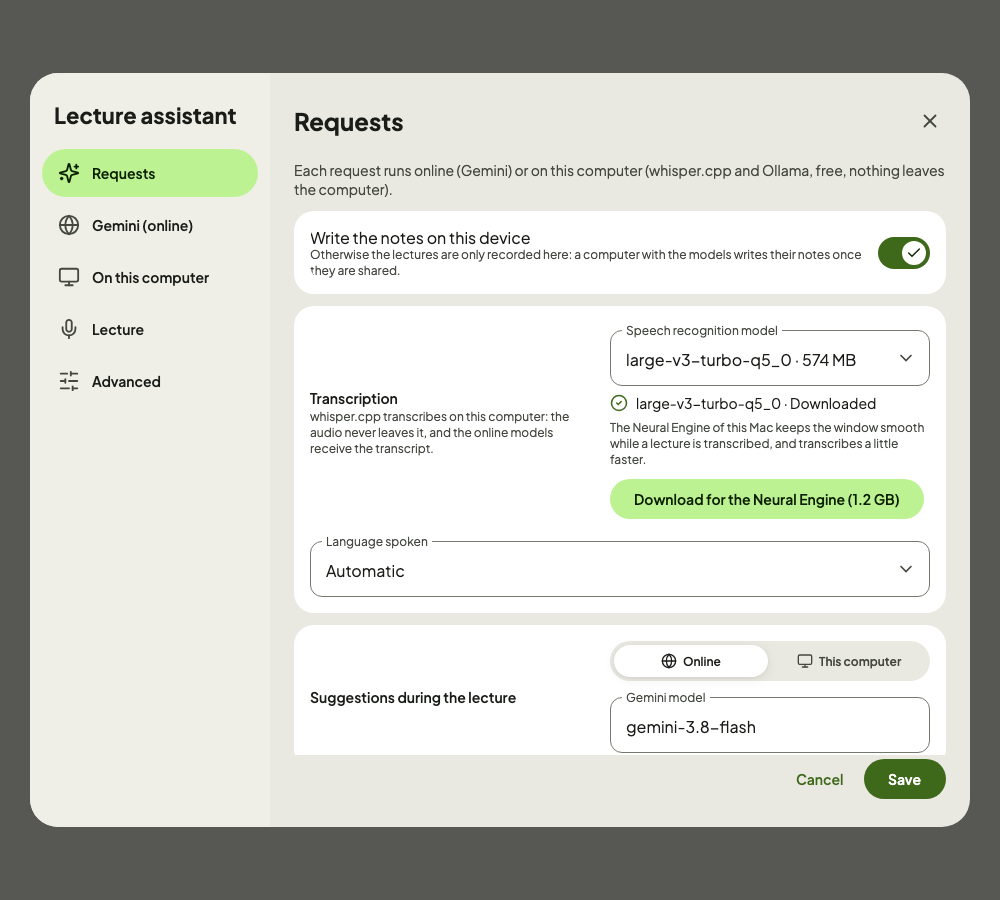
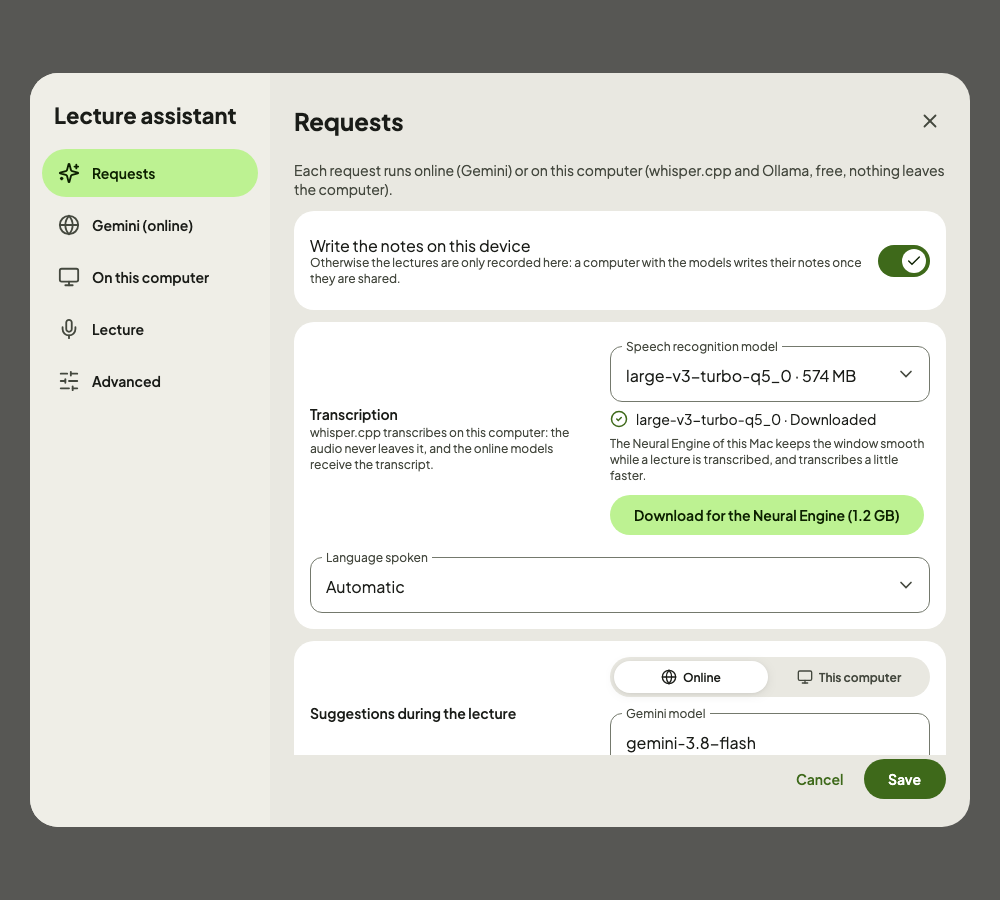
refactor(ui): one SwitchRow in the design components, one codePointAt in drawview-model
SwitchRow (drawview-ui) replaces the copies of the export sheet, the settings of the
lecture assistant and the access of the external models (their screenshots recorded
again: the switch with its check, the row toggling it); codePointAt and codePoints
(drawview-model, text) replace the copies of drawview-pdf and drawview-export. ABI of
drawview-model and drawview-ui updated on purpose. Phase 12 of docs/architecture.md.

Changed region(s): [[0.279, 0.2489, 0.961, 0.84], [0.31, 0.4356, 0.558, 0.5289], [0.31, 0.7467, 0.527, 0.8089]]

diff --git a/drawview-lecture-ui/src/commonMain/kotlin/io/github/valerioisufi/drawview/lecture/ui/AssistantSettingsDialog.kt b/drawview-lecture-ui/src/commonMain/kotlin/io/github/valerioisufi/drawview/lecture/ui/AssistantSettingsDialog.kt
@@ -17,20 +17,16 @@ import androidx.compose.foundation.layout.size
 import androidx.compose.foundation.layout.width
 import androidx.compose.foundation.rememberScrollState
 import androidx.compose.foundation.selection.selectable
-import androidx.compose.foundation.selection.toggleable
 import androidx.compose.foundation.shape.RoundedCornerShape
 import androidx.compose.foundation.verticalScroll
 import androidx.compose.material3.Button
 import androidx.compose.material3.CircularProgressIndicator
-import androidx.compose.material3.DropdownMenuItem
 import androidx.compose.material3.Icon
 import androidx.compose.material3.IconButton
 import androidx.compose.material3.LinearProgressIndicator
 import androidx.compose.material3.MaterialTheme
 import androidx.compose.material3.OutlinedTextField
 import androidx.compose.material3.RadioButton
-import androidx.compose.material3.Switch
-import androidx.compose.material3.SwitchDefaults
 import androidx.compose.material3.Text
 import androidx.compose.material3.TextButton
 import androidx.compose.runtime.Composable
@@ -70,6 +66,7 @@ import io.github.valerioisufi.drawview.ui.components.DesignSlider
 import io.github.valerioisufi.drawview.ui.components.LabelBadge
 import io.github.valerioisufi.drawview.ui.components.NavigationItem
 import io.github.valerioisufi.drawview.ui.components.SegmentedChoice
+import io.github.valerioisufi.drawview.ui.components.SwitchRow
 import io.github.valerioisufi.drawview.ui.components.TonalButton
 import io.github.valerioisufi.drawview.ui.theme.DrawViewIcons
 import io.github.valerioisufi.drawview.ui.util.formatDecimal
@@ -204,38 +201,16 @@ private fun SettingsCard(title: StringResource? = null, content: @Composable Col
     }
 }
 
-/** A setting turned on and off: its name, what it means, its switch. */
-@Composable
-private fun SwitchRow(label: String, hint: String?, checked: Boolean, onChange: (Boolean) -> Unit) {
-    Row(
-        modifier = Modifier.fillMaxWidth().clip(RoundedCornerShape(12.dp)).toggleable(value = checked, role = Role.Switch, onValueChange = onChange),
-        verticalAlignment = Alignment.CenterVertically,
-        horizontalArrangement = Arrangement.spacedBy(12.dp)
-    ) {
-        Column(modifier = Modifier.weight(1f)) {
-            Text(label, style = MaterialTheme.typography.bodyLarge)
-            hint?.let { Hint(it) }
-        }
-        Switch(
-            checked = checked,
-            onCheckedChange = null,
-            thumbContent = if (checked) {
-                { Icon(DrawViewIcons.Check, contentDescription = null, modifier = Modifier.size(SwitchDefaults.IconSize)) }
-            } else null
-        )
-    }
-}
-
 /** Whether the notes are written here; online or local for every request, and its model; what is sent to Google. */
 @Composable
 private fun RequestsSection(draft: AssistantSettings, localModels: LocalModels, onChange: (AssistantSettings) -> Unit) {
     Text(stringResource(Res.string.lecture_settings_requests_hint), style = MaterialTheme.typography.bodyMedium, color = MaterialTheme.colorScheme.onSurfaceVariant)
     SettingsCard {
         SwitchRow(
-            label = stringResource(Res.string.lecture_settings_generate_here),
+            text = stringResource(Res.string.lecture_settings_generate_here),
             hint = stringResource(Res.string.lecture_settings_generate_here_hint),
             checked = draft.generateHere,
-            onChange = { onChange(draft.copy(generateHere = it)) }
+            onCheckedChange = { onChange(draft.copy(generateHere = it)) }
         )
     }
     if (!draft.generateHere) return
@@ -458,10 +433,10 @@ private fun TaskModelRow(task: LectureTask, settings: AssistantSettings, localMo
         }
         if (task == LectureTask.FINAL_REVIEW) {
             SwitchRow(
-                label = stringResource(Res.string.lecture_settings_review_at_end),
+                text = stringResource(Res.string.lecture_settings_review_at_end),
                 hint = stringResource(Res.string.lecture_settings_review_on_request_hint).takeIf { !settings.reviewAtTheEnd },
                 checked = settings.reviewAtTheEnd,
-                onChange = { onChange(settings.copy(reviewAtTheEnd = it)) }
+                onCheckedChange = { onChange(settings.copy(reviewAtTheEnd = it)) }
             )
         }
     }

diff --git a/drawview-export-ui/src/commonMain/kotlin/io/github/valerioisufi/drawview/export/ui/ExportSheet.kt b/drawview-export-ui/src/commonMain/kotlin/io/github/valerioisufi/drawview/export/ui/ExportSheet.kt
@@ -18,7 +18,6 @@ import androidx.compose.foundation.layout.size
 import androidx.compose.foundation.layout.width
 import androidx.compose.foundation.selection.selectable
 import androidx.compose.foundation.selection.selectableGroup
-import androidx.compose.foundation.selection.toggleable
 import androidx.compose.foundation.shape.RoundedCornerShape
 import androidx.compose.foundation.text.KeyboardActions
 import androidx.compose.foundation.text.KeyboardOptions
@@ -27,8 +26,6 @@ import androidx.compose.material3.Icon
 import androidx.compose.material3.MaterialTheme
 import androidx.compose.material3.OutlinedTextField
 import androidx.compose.material3.Surface
-import androidx.compose.material3.Switch
-import androidx.compose.material3.SwitchDefaults
 import androidx.compose.material3.Text
 import androidx.compose.material3.TextButton
 import androidx.compose.runtime.Composable
@@ -101,14 +98,15 @@ import io.github.valerioisufi.drawview.export.ui.generated.resources.export_titl
 import io.github.valerioisufi.drawview.ui.adaptive.AdaptiveSheet
 import io.github.valerioisufi.drawview.ui.components.ChipRow
 import io.github.valerioisufi.drawview.ui.components.DesignFilterChip
+import io.github.valerioisufi.drawview.ui.components.SwitchRow
 import io.github.valerioisufi.drawview.ui.platform.FileTarget
 import io.github.valerioisufi.drawview.ui.platform.rememberFileSaver
 import io.github.valerioisufi.drawview.ui.platform.rememberFileSharer
-import io.github.valerioisufi.drawview.ui.render.LocalDrawViewEngines
 import io.github.valerioisufi.drawview.ui.render.ComposeTextTileAdapter
+import io.github.valerioisufi.drawview.ui.render.LocalDrawViewEngines
+import io.github.valerioisufi.drawview.ui.theme.DrawViewIcons
 import io.github.valerioisufi.drawview.ui.theme.NotesFontFiles
 import io.github.valerioisufi.drawview.ui.theme.rememberNotesFonts
-import io.github.valerioisufi.drawview.ui.theme.DrawViewIcons
 import org.jetbrains.compose.resources.StringResource
 import org.jetbrains.compose.resources.pluralStringResource
 import org.jetbrains.compose.resources.stringResource
@@ -438,27 +436,3 @@ private fun FormatCard(icon: ImageVector, name: String, hint: String, selected: 
     }
 }
 
-/** An option: its [text], what it does ([hint]) and its switch. */
-@Composable
-private fun SwitchRow(text: String, hint: String?, checked: Boolean, onCheckedChange: (Boolean) -> Unit) {
-    Row(
-        modifier = Modifier
-            .fillMaxWidth()
-            .clip(RoundedCornerShape(12.dp))
-            .toggleable(value = checked, role = Role.Switch, onValueChange = onCheckedChange)
-            .padding(vertical = 8.dp),
-        verticalAlignment = Alignment.CenterVertically
-    ) {
-        Column(modifier = Modifier.weight(1f)) {
-            Text(text, style = MaterialTheme.typography.bodyLarge, color = MaterialTheme.colorScheme.onSurface)
-            if (hint != null) Text(hint, style = MaterialTheme.typography.bodySmall, color = MaterialTheme.colorScheme.onSurfaceVariant)
-        }
-        Switch(
-            checked = checked,
-            onCheckedChange = null,
-            thumbContent = if (checked) {
-                { Icon(DrawViewIcons.Check, contentDescription = null, modifier = Modifier.size(SwitchDefaults.IconSize)) }
-            } else null
-        )
-    }
-}

diff --git a/drawview-ui/src/commonMain/kotlin/io/github/valerioisufi/drawview/ui/components/DesignComponents.kt b/drawview-ui/src/commonMain/kotlin/io/github/valerioisufi/drawview/ui/components/DesignComponents.kt
@@ -9,6 +9,7 @@ import androidx.compose.foundation.interaction.MutableInteractionSource
 import androidx.compose.foundation.interaction.collectIsFocusedAsState
 import androidx.compose.foundation.layout.Arrangement
 import androidx.compose.foundation.layout.Box
+import androidx.compose.foundation.layout.Column
 import androidx.compose.foundation.layout.PaddingValues
 import androidx.compose.foundation.layout.Row
 import androidx.compose.foundation.layout.RowScope
@@ -18,6 +19,7 @@ import androidx.compose.foundation.layout.height
 import androidx.compose.foundation.layout.padding
 import androidx.compose.foundation.layout.size
 import androidx.compose.foundation.rememberScrollState
+import androidx.compose.foundation.selection.toggleable
 import androidx.compose.foundation.shape.CircleShape
 import androidx.compose.foundation.shape.RoundedCornerShape
 import androidx.compose.foundation.text.BasicTextField
@@ -34,6 +36,8 @@ import androidx.compose.material3.OutlinedButton
 import androidx.compose.material3.Snackbar
 import androidx.compose.material3.SnackbarData
 import androidx.compose.material3.Surface
+import androidx.compose.material3.Switch
+import androidx.compose.material3.SwitchDefaults
 import androidx.compose.material3.Text
 import androidx.compose.runtime.Composable
 import androidx.compose.runtime.CompositionLocalProvider
@@ -47,8 +51,8 @@ import androidx.compose.ui.focus.focusRequester
 import androidx.compose.ui.graphics.Color
 import androidx.compose.ui.graphics.SolidColor
 import androidx.compose.ui.graphics.vector.ImageVector
-import androidx.compose.ui.semantics.Role
 import androidx.compose.ui.platform.LocalSoftwareKeyboardController
+import androidx.compose.ui.semantics.Role
 import androidx.compose.ui.text.TextStyle
 import androidx.compose.ui.text.input.ImeAction
 import androidx.compose.ui.text.style.TextOverflow
@@ -391,4 +395,33 @@ public fun OutlineButton(
         border = BorderStroke(1.dp, if (enabled) borderColor else borderColor.copy(alpha = 0.38f)),
         content = content
     )
+}
+
+/**
+ * An option turned on and off: its [text], what it does ([hint]) and its switch; the whole row
+ * toggles it.
+ */
+@Composable
+public fun SwitchRow(text: String, hint: String?, checked: Boolean, onCheckedChange: (Boolean) -> Unit, modifier: Modifier = Modifier) {
+    Row(
+        modifier = modifier
+            .fillMaxWidth()
+            .clip(RoundedCornerShape(12.dp))
+            .toggleable(value = checked, role = Role.Switch, onValueChange = onCheckedChange)
+            .padding(vertical = 8.dp),
+        verticalAlignment = Alignment.CenterVertically,
+        horizontalArrangement = Arrangement.spacedBy(12.dp)
+    ) {
+        Column(modifier = Modifier.weight(1f)) {
+            Text(text, style = MaterialTheme.typography.bodyLarge, color = MaterialTheme.colorScheme.onSurface)
+            if (hint != null) Text(hint, style = MaterialTheme.typography.bodySmall, color = MaterialTheme.colorScheme.onSurfaceVariant)
+        }
+        Switch(
+            checked = checked,
+            onCheckedChange = null,
+            thumbContent = if (checked) {
+                { Icon(DrawViewIcons.Check, contentDescription = null, modifier = Modifier.size(SwitchDefaults.IconSize)) }
+            } else null
+        )
+    }
 }

diff --git a/drawview-agent-ui/src/commonMain/kotlin/io/github/valerioisufi/drawview/agent/ui/AgentReviewUi.kt b/drawview-agent-ui/src/commonMain/kotlin/io/github/valerioisufi/drawview/agent/ui/AgentReviewUi.kt
@@ -17,7 +17,6 @@ import androidx.compose.material3.Checkbox
 import androidx.compose.material3.MaterialTheme
 import androidx.compose.material3.OutlinedButton
 import androidx.compose.material3.Surface
-import androidx.compose.material3.Switch
 import androidx.compose.material3.Text
 import androidx.compose.material3.TextButton
 import androidx.compose.runtime.Composable
@@ -131,6 +130,7 @@ import io.github.valerioisufi.drawview.model.change.ChangeObserver
 import io.github.valerioisufi.drawview.ui.adaptive.AdaptiveSheet
 import io.github.valerioisufi.drawview.ui.command.Command
 import io.github.valerioisufi.drawview.ui.command.CommandGroup
+import io.github.valerioisufi.drawview.ui.components.SwitchRow
 import io.github.valerioisufi.drawview.ui.extension.EditorContext
 import io.github.valerioisufi.drawview.ui.extension.EditorExtension
 import io.github.valerioisufi.drawview.ui.extension.EditorPanel
@@ -646,28 +646,28 @@ internal fun AccessSheet(
                 stringResource(Res.string.agent_access_enable),
                 stringResource(Res.string.agent_access_enable_note),
                 checked = grants.enabled,
-                onChange = onEnabled
+                onCheckedChange = onEnabled
             )
             if (grants.enabled) {
                 SwitchRow(
                     stringResource(Res.string.agent_access_all),
                     stringResource(Res.string.agent_access_all_note),
                     checked = grants.allDocuments,
-                    onChange = onAllDocuments
+                    onCheckedChange = onAllDocuments
                 )
                 if (!grants.allDocuments && documentId != null) {
                     SwitchRow(
                         stringResource(Res.string.agent_access_document),
                         stringResource(Res.string.agent_access_document_note),
                         checked = documentId in grants.documents,
-                        onChange = onDocument
+                        onCheckedChange = onDocument
                     )
                 }
                 SwitchRow(
                     stringResource(Res.string.agent_access_direct),
                     stringResource(Res.string.agent_access_direct_note),
                     checked = grants.applyDirectly,
-                    onChange = onApplyDirectly
+                    onCheckedChange = onApplyDirectly
                 )
                 if (grants.allDocuments && grants.applyDirectly) {
                     Text(
@@ -786,13 +786,3 @@ private fun BatchRow(batch: AgentBatch, outcome: UndoOutcome?, onUndo: () -> Uni
 
 private const val MAX_BATCHES_SHOWN = 20
 
-@Composable
-private fun SwitchRow(title: String, note: String, checked: Boolean, onChange: (Boolean) -> Unit) {
-    Row(verticalAlignment = Alignment.CenterVertically, horizontalArrangement = Arrangement.spacedBy(16.dp)) {
-        Column(Modifier.weight(1f), verticalArrangement = Arrangement.spacedBy(2.dp)) {
-            Text(title, style = MaterialTheme.typography.bodyLarge)
-            Text(note, style = MaterialTheme.typography.bodySmall, color = MaterialTheme.colorScheme.onSurfaceVariant)
-        }
-        Switch(checked = checked, onCheckedChange = onChange)
-    }
-}

diff --git a/drawview-export/src/commonMain/kotlin/io/github/valerioisufi/drawview/export/FormulaPaths.kt b/drawview-export/src/commonMain/kotlin/io/github/valerioisufi/drawview/export/FormulaPaths.kt
@@ -4,6 +4,7 @@ import io.github.valerioisufi.drawview.canvas.render.tile.FormulaDrawing
 import io.github.valerioisufi.drawview.canvas.render.tile.FormulaFont
 import io.github.valerioisufi.drawview.canvas.render.tile.FormulaOp
 import io.github.valerioisufi.drawview.model.geometry.Matrix2D
+import io.github.valerioisufi.drawview.model.text.codePointAt
 import io.github.valerioisufi.drawview.pdf.PdfPath
 import io.github.valerioisufi.drawview.pdf.TrueTypeFont
 import kotlin.math.PI
@@ -217,26 +218,5 @@ internal class FormulaPaths(private val fonts: (FormulaFont) -> TrueTypeFont?) {
             return size * (1f / 24f + t * (1f / 32f - 1f / 24f))
         }
     }
-}
-
-/** The code point of [text] at [index] (a surrogate pair read as one). */
-internal fun codePointAt(text: String, index: Int): Int {
-    val high = text[index]
-    if (high.isHighSurrogate() && index + 1 < text.length && text[index + 1].isLowSurrogate()) {
-        return 0x10000 + ((high.code - 0xD800) shl 10) + (text[index + 1].code - 0xDC00)
-    }
-    return high.code
-}
-
-/** The code points of [text]. */
-internal fun codePoints(text: String): List<Int> {
-    val points = mutableListOf<Int>()
-    var i = 0
-    while (i < text.length) {
-        val codePoint = codePointAt(text, i)
-        points += codePoint
-        i += if (codePoint > 0xFFFF) 2 else 1
-    }
-    return points
 }
 

diff --git a/drawview-pdf/src/commonMain/kotlin/io/github/valerioisufi/drawview/pdf/TrueTypeFont.kt b/drawview-pdf/src/commonMain/kotlin/io/github/valerioisufi/drawview/pdf/TrueTypeFont.kt
@@ -1,5 +1,7 @@
 package io.github.valerioisufi.drawview.pdf
 
+import io.github.valerioisufi.drawview.model.text.codePointAt
+
 /**
  * A TrueType font (outlines in its `glyf` table): the glyphs of the characters, their advances
  * and outlines, and subsets of it to embed in a PDF (see [subset]).
@@ -563,13 +565,4 @@ public class TrueTypeFont(private val data: ByteArray) {
  */
 public class GlyphContour(public val xs: FloatArray, public val ys: FloatArray, public val onCurve: BooleanArray) {
     public val size: Int get() = xs.size
-}
-
-/** The code point of [text] at [index] (a surrogate pair read as one). */
-internal fun codePointAt(text: String, index: Int): Int {
-    val high = text[index]
-    if (high.isHighSurrogate() && index + 1 < text.length && text[index + 1].isLowSurrogate()) {
-        return 0x10000 + ((high.code - 0xD800) shl 10) + (text[index + 1].code - 0xDC00)
-    }
-    return high.code
 }

diff --git a/drawview-model/src/commonMain/kotlin/io/github/valerioisufi/drawview/model/text/CodePoints.kt b/drawview-model/src/commonMain/kotlin/io/github/valerioisufi/drawview/model/text/CodePoints.kt
@@ -1,0 +1,22 @@
+package io.github.valerioisufi.drawview.model.text
+
+/** The code point of [text] at [index] (a surrogate pair read as one). */
+public fun codePointAt(text: String, index: Int): Int {
+    val high = text[index]
+    if (high.isHighSurrogate() && index + 1 < text.length && text[index + 1].isLowSurrogate()) {
+        return 0x10000 + ((high.code - 0xD800) shl 10) + (text[index + 1].code - 0xDC00)
+    }
+    return high.code
+}
+
+/** The code points of [text]. */
+public fun codePoints(text: String): List<Int> {
+    val points = mutableListOf<Int>()
+    var i = 0
+    while (i < text.length) {
+        val codePoint = codePointAt(text, i)
+        points += codePoint
+        i += if (codePoint > 0xFFFF) 2 else 1
+    }
+    return points
+}

diff --git a/drawview-export/src/commonMain/kotlin/io/github/valerioisufi/drawview/export/PdfExporter.kt b/drawview-export/src/commonMain/kotlin/io/github/valerioisufi/drawview/export/PdfExporter.kt
@@ -33,6 +33,7 @@ import io.github.valerioisufi.drawview.model.geometry.Point
 import io.github.valerioisufi.drawview.model.geometry.Rect
 import io.github.valerioisufi.drawview.model.geometry.VectorDrawing
 import io.github.valerioisufi.drawview.model.pdfPointsToPageMm
+import io.github.valerioisufi.drawview.model.text.codePoints
 import io.github.valerioisufi.drawview.model.triangleOutline
 import io.github.valerioisufi.drawview.pdf.PdfFont
 import io.github.valerioisufi.drawview.pdf.PdfImportedPage
